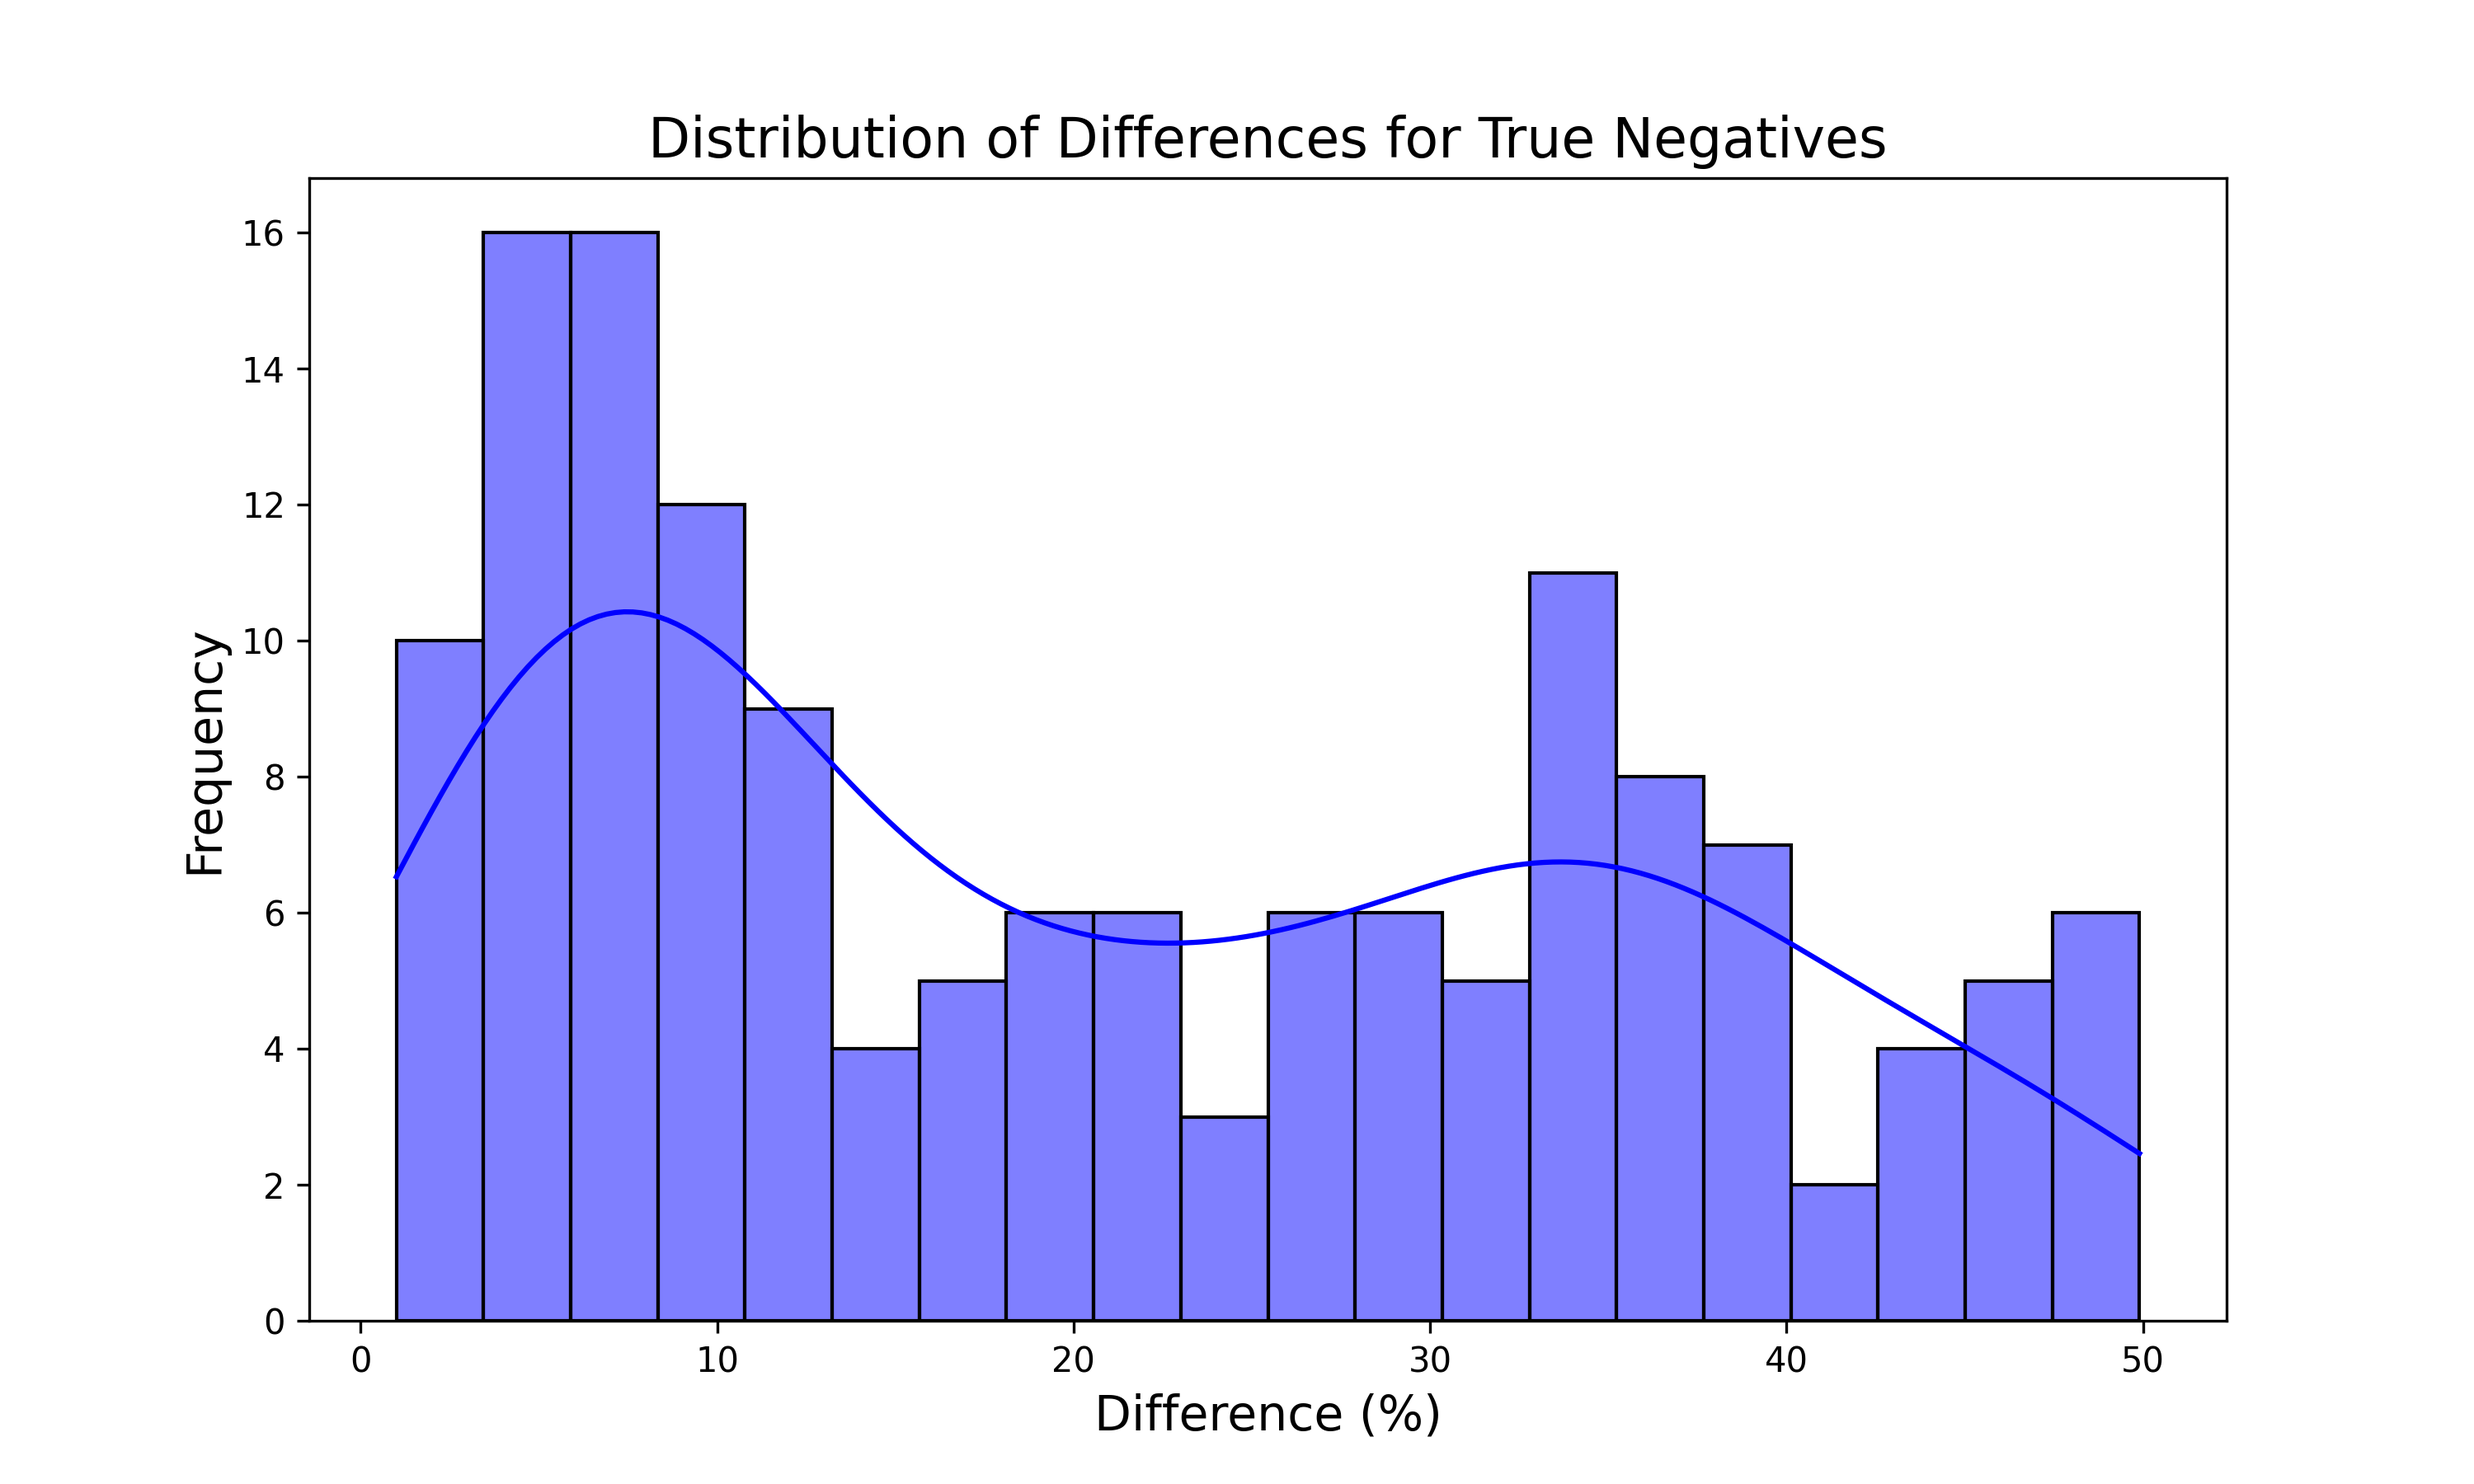
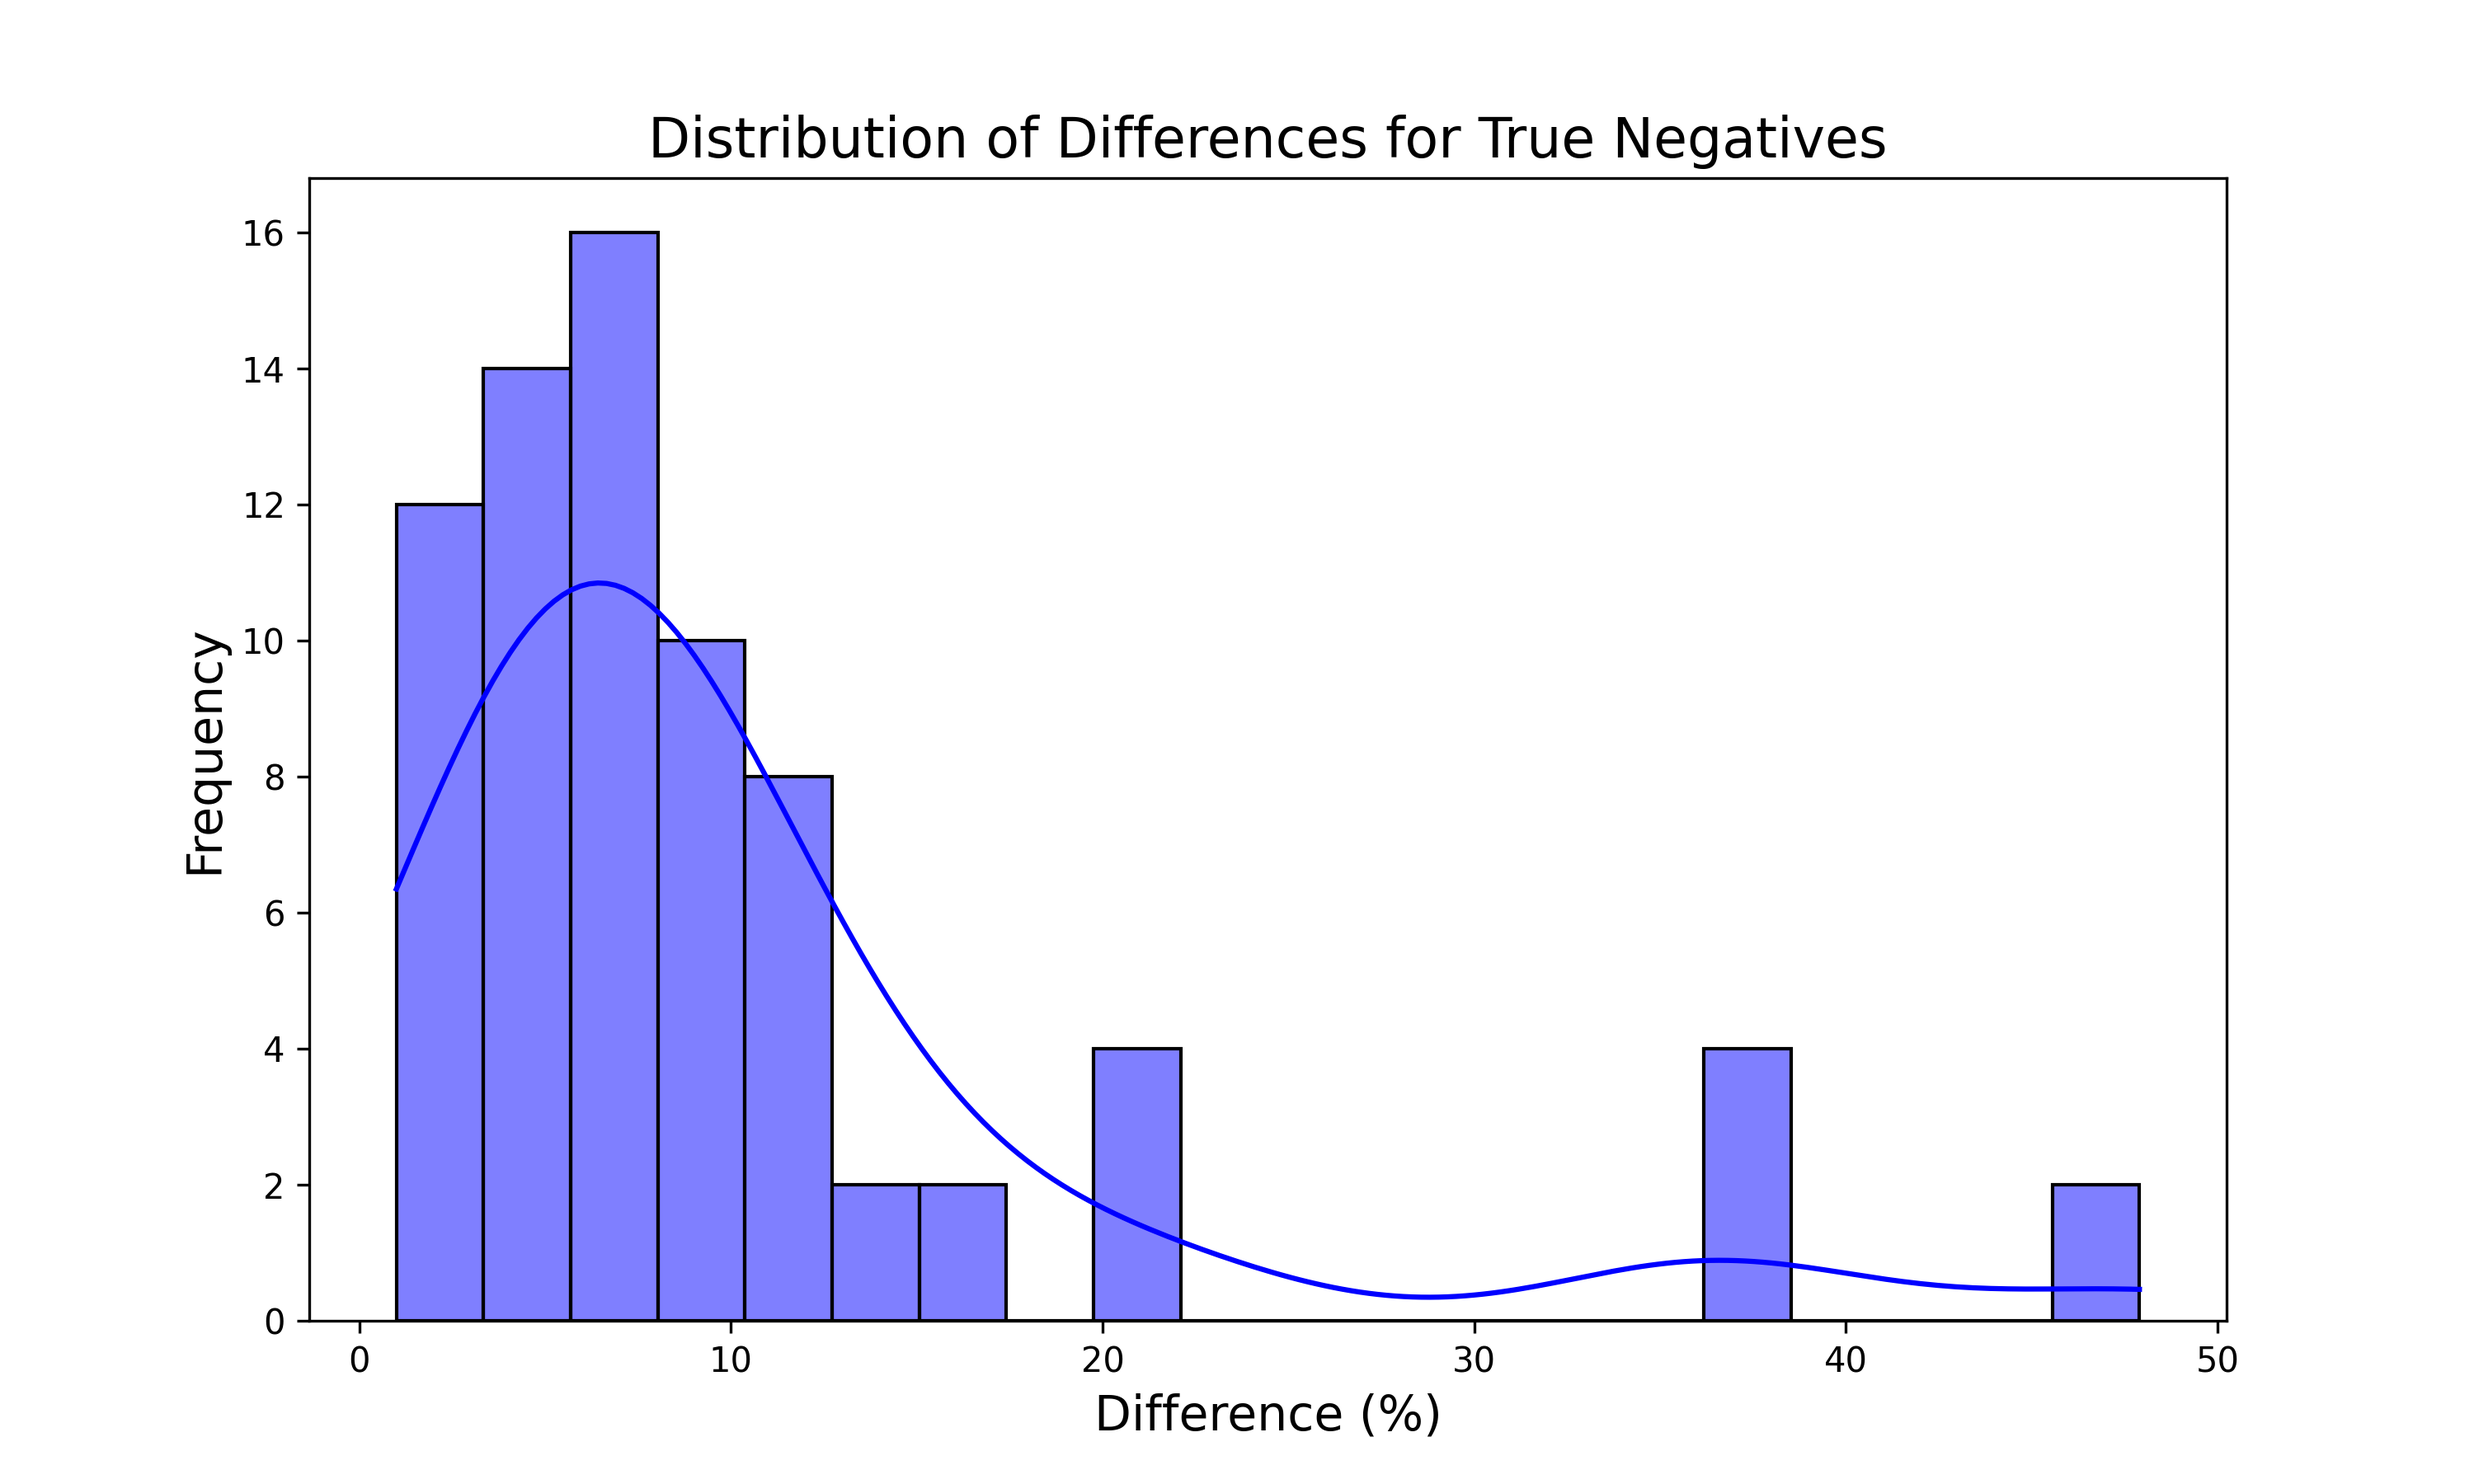
correct verify truth

diff --git a/src/verify_truth.py b/src/verify_truth.py
@@ -12,12 +12,11 @@ def process_file(freq_file, threshold=0.2):
     list_diff = []
 
     # Iterate in pairs and calculate the differences
-    itr = 0
     for i in range(0, len(df) - 1, 2):
         row_1 = df.iloc[i]
         row_2 = df.iloc[i + 1]
         diff = abs(row_1['freq'] - row_2['freq'])
-        
+
         if diff >= threshold:
             true_labels.append(0)
         else :
@@ -28,9 +27,10 @@ def process_file(freq_file, threshold=0.2):
 
     return path_list, true_labels, list_diff
 
-def match_snarl(path_list, true_labels, p_value_file):
+def match_snarl(path_list, true_labels, p_value_file, paths_file):
     p_value_df = pd.read_csv(p_value_file, sep='\t')
-    
+    paths_df = pd.read_csv(paths_file, sep='\t')
+
     # To store predicted labels
     predicted_labels_10_2 = []
     predicted_labels_10_5 = []
@@ -40,16 +40,26 @@ def match_snarl(path_list, true_labels, p_value_file):
     finded_row = 0
 
     for idx, snarl_id in enumerate(path_list):
+
+        # if idx == 15 :
+        #     exit()
         start_node, next_node = map(int, snarl_id.split('_'))
-        
         split = p_value_df['Snarl'].str.split('_')
-        matched_row = p_value_df[(split.str[1].astype(int) <= start_node) & 
-                                    (split.str[0].astype(int) >= next_node)]
+        _id_snarl = (split.str[1].astype(int) <= start_node) & (split.str[0].astype(int) >= next_node)
+        matched_row = p_value_df[_id_snarl]
 
-        if not matched_row.empty:
-            match = matched_row.iloc[0]
+        if not matched_row.empty :
+            if len(matched_row) > 1 :
+                split_paths = paths_df['paths'][_id_snarl]
+                indices = split_paths.index
+                for idx_paths, list_paths in enumerate(split_paths) :
+                    for path in list_paths.split(',') :
+                        if f"{next_node}>{start_node}" in path :
+                            match = matched_row.loc[indices[idx_paths]]
+
+            else :
+                match = matched_row.iloc[0]
             p_value_fisher = match['P_value_Fisher']
-
             predicted_labels_10_2.append(0 if p_value_fisher < 0.01 else 1)
             predicted_labels_10_5.append(0 if p_value_fisher < 0.00001 else 1)
             predicted_labels_10_8.append(0 if p_value_fisher < 0.00000001 else 1)
@@ -101,7 +111,7 @@ def print_confusion_matrix(predicted_labels_10_2, predicted_labels_10_5, predict
 def plot_diff_distribution(test_predicted_labels, cleaned_true_labels, list_diff):
     # Identify false negatives: True label is 1 (no difference), but predicted label is 0 (predicted a difference)
     true_negatives_indices = [i for i, (pred, true) in enumerate(zip(test_predicted_labels, cleaned_true_labels)) if pred == 1 and true == 0]
-    
+
     # Extract the corresponding differences for false negatives
     true_negative_diffs = [list_diff[i]*100 for i in true_negatives_indices]
 
@@ -114,10 +124,7 @@ def plot_diff_distribution(test_predicted_labels, cleaned_true_labels, list_diff
     plt.grid(False)
     plt.savefig(output + '_distribution_neg_neg.png', format='png', dpi=300)
 
-    # Identify false negatives: True label is 1 (no difference), but predicted label is 0 (predicted a difference)
     true_true_indices = [i for i, (pred, true) in enumerate(zip(test_predicted_labels, cleaned_true_labels)) if pred == 0 and true == 0]
-    
-    # Extract the corresponding differences for false negatives
     true_true_diffs = [list_diff[i]*100 for i in true_true_indices]
 
     # Plot the distribution of differences for false negatives
@@ -133,19 +140,20 @@ if __name__ == "__main__":
     parser = argparse.ArgumentParser(description="Parse a file with start_node, next_node, group, and freq columns.")
     parser.add_argument("freq", help="Path to allele frequence file")
     parser.add_argument("p_value", help="Path to p_value file")
+    parser.add_argument("paths", help="Path to p_value file")
 
     args = parser.parse_args()
     path_list, true_labels, _ = process_file(args.freq)
 
     output = "output/truth_confusion_matrix"
     # Match the result_list with the p_value file and write to the output
-    predicted_labels_10_2, predicted_labels_10_5, predicted_labels_10_8, cleaned_true_labels = match_snarl(path_list, true_labels, args.p_value)
+    predicted_labels_10_2, predicted_labels_10_5, predicted_labels_10_8, cleaned_true_labels = match_snarl(path_list, true_labels, args.p_value, args.paths)
     print_confusion_matrix(predicted_labels_10_2, predicted_labels_10_5, predicted_labels_10_8, cleaned_true_labels, output)
 
     # special case
     test_path_list, test_true_labels, list_diff = process_file(args.freq, 0.0000000000000001)
     p_val_10_2 = 0.01
-    test_predicted_labels_10_2, _, _, cleaned_true_labels = match_snarl(test_path_list, test_true_labels, args.p_value)
+    test_predicted_labels_10_2, _, _, cleaned_true_labels = match_snarl(test_path_list, test_true_labels, args.p_value, args.paths)
     conf_mat_maker(p_val_10_2, test_predicted_labels_10_2, cleaned_true_labels, "output/test_truth_confusion_matrix")
     plot_diff_distribution(test_predicted_labels_10_2, cleaned_true_labels, list_diff)
 
